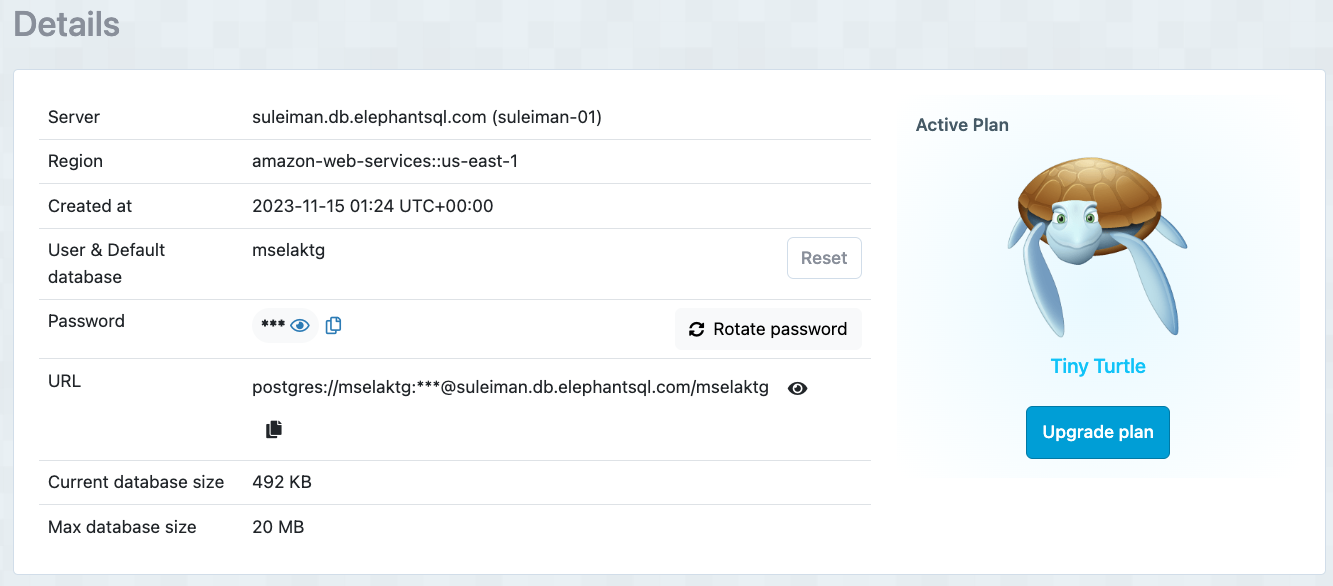
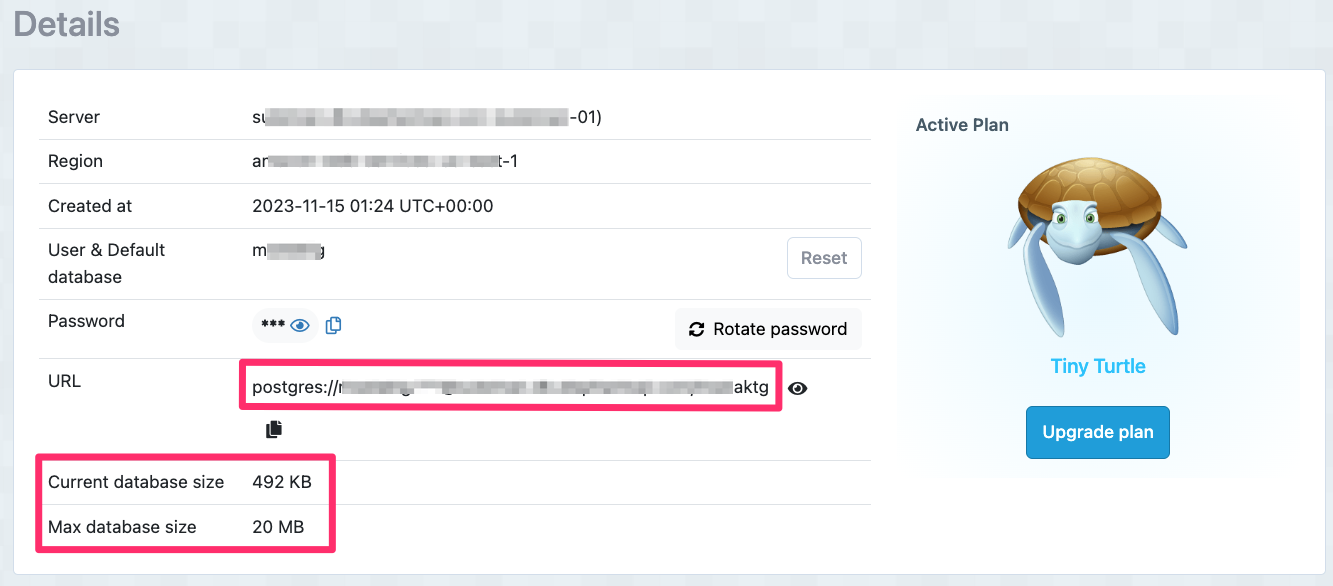
note about elephant max size

diff --git a/content.md b/content.md
@@ -169,6 +169,14 @@ postgres://username:password@hostname/databasename
 ```
 </aside>
 
+![](/assets/elephant-sql-details-page.png)
+{: .bleed-full }
+
+<div class="bg-red-100 py-1 px-5" markdown="1">
+
+Note the "Max database size" on the Tiny Turtle free plan is only 20 MB. This is pretty small, and as your app and database grows, you may hit this limit fairly quickly. In that case, follow the steps later in this guide on [Migrating Databases](#migrating-databases).
+</div>
+
 Once you have that long URL from ElephantSQL copied to your clipboard, you can head to your [Render dashboard](https://dashboard.render.com/), and find the app you wish to connect the external database. On the dashboard for your app, click on "Environment" and note the `DATABASE_URL`:
 
 - Delete the current `DATABASE_URL` environment variable with the trash icon
